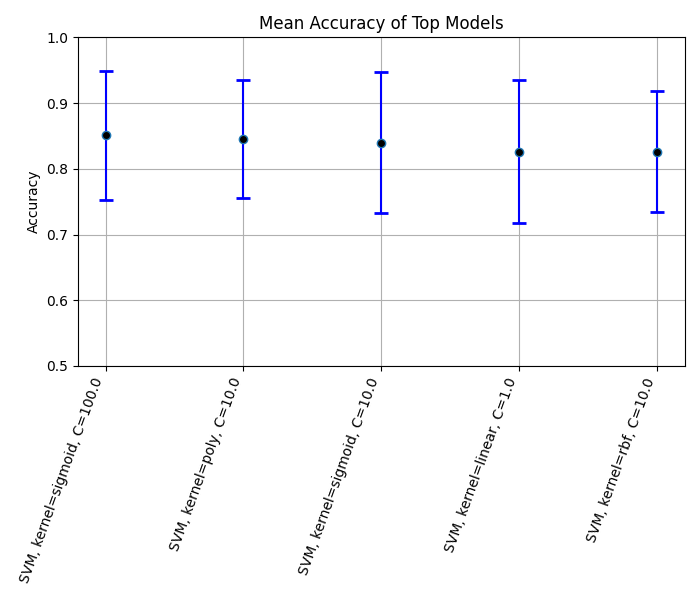
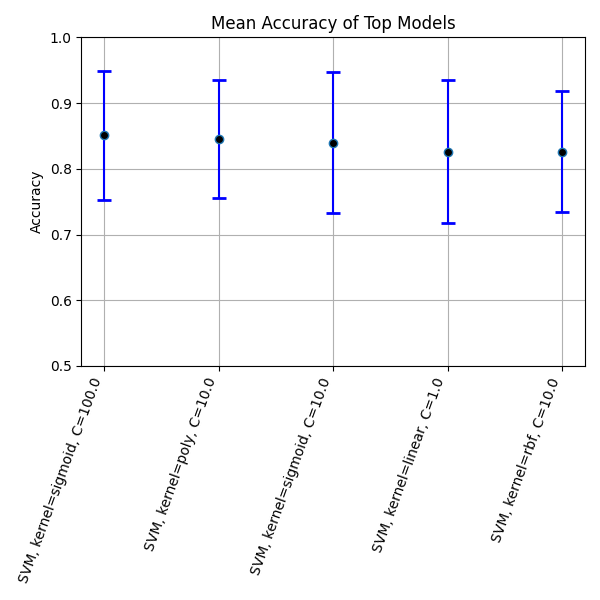
report SVM for the best model .txt

diff --git a/Hepatitis/pruebaSVM.py b/Hepatitis/pruebaSVM.py
@@ -1,4 +1,6 @@
 import pandas as pd
+from Tools.scripts.fixdiv import report
+
 from classes.Reader import DataPreprocessor
 from classes.SVM import SVM
 import os
@@ -11,6 +13,9 @@ from scipy import stats
 from scikit_posthocs import posthoc_nemenyi_friedman
 import matplotlib.pyplot as plt
 import seaborn as sns
+
+from test_reducing.pruebaDROP3 import reduction
+
 
 # STEPS:
 # 1. Compare 16 algorithms over the 10 folds of the dataset hepatitis
@@ -91,7 +96,6 @@ def previous_analysis(dataset_path_f):
                 metrics.append({
                     'Model': model,
                     'Dataset/Fold': f"Hepatitis/{n}",
-                    'Reduction': None,
                     'Accuracy': evaluation[0],
                     'Time': evaluation[1],
                     'F1': evaluation[2]
@@ -185,9 +189,8 @@ def total_analysis(kernel_def_f,c_value_def_f,dataset_path_ff):
             evaluation=svm_classifier.evaluate(x_test, y_test)
 
             metrics.append({
-                    'Model': model,
+                    'Model': model+ +reduction_desc,
                     'Dataset/Fold': f"Hepatitis/{fold}",
-                    'reduction_method':reduction_desc,
                     'Accuracy': evaluation[0],
                     'Time': evaluation[1],
                     'F1': evaluation[2]
@@ -214,8 +217,10 @@ best_five_algo.to_csv('svm_hepatitis_results_best5.csv', index=False)
 
 csv_path = "svm_hepatitis_results_best5.csv"
 output_path = "plots_and_tables\\svm_base\\statistical_analysis_results.png"
+report_output_path="plots_and_tables\\svm_base\\statistical_analysis_results.txt"
+alpha=0.1 # for the test
 
-if not svm_base_analysis.analyze_model_performance(csv_path,output_path):
+if not svm_base_analysis.analyze_model_performance(csv_path,output_path,report_output_path,alpha):
     print("It is concluded that there is no statistical difference between models.")
 else:
     print("It is concluded that there is statistical difference between models.")
@@ -223,22 +228,24 @@ else:
 
 # We will work with the model that presents higher accuracy
 best_SVM_algo = filter_top_model(prev_results[1], kernel_def[0], c_value_def[0])
-best_SVM_algo.to_csv('svm_hepatitis_results.csv', index=False)
+best_SVM_algo.to_csv('svm_hepatitis_results_best1.csv', index=False)
 
 # 4. I study the accuracy, time and f1 of the SELECTED model in 10 reduced folds for each of the 3 methods of reduction
 # (over 30 folds in total)
 
 best_algo_reduced= total_analysis(kernel_def[0],c_value_def[0],dataset_path)
-best_algo_reduced.to_csv('svm_hepatitis_results_reduced.csv', index=False, header=False)
+best_algo_reduced.to_csv('svm_hepatitis_results_reduced.csv', index=False)
 
 # 5. I apply the Friedman + Nemenyi test to get the best reduction method.
 csv_path = "svm_hepatitis_results_reduced.csv"
 output_path = "plots_and_tables\\svm_base\\statistical_analysis_results_reduced.png"
+report_output_path="plots_and_tables\\svm_base\\statistical_analysis_results_reduced.txt"
+alpha=0.1 # for the test
 
-if not svm_base_analysis.analyze_model_performance(csv_path,output_path):
-    print("It is concluded that there is no statistical difference between models.")
-else:
-    print("It is concluded that there is statistical difference between models.")
-    svm_base_analysis.main(csv_path, output_path)
+#if not svm_base_analysis.analyze_model_performance(csv_path,output_path,report_output_path,alpha):
+#    print("It is concluded that there is no statistical difference between models.")
+#else:
+#    print("It is concluded that there is statistical difference between models.")
+#    svm_base_analysis.main(csv_path, output_path)
 
 

diff --git a/Hepatitis/svm_base_analysis.py b/Hepatitis/svm_base_analysis.py
@@ -6,7 +6,7 @@ import matplotlib.pyplot as plt
 import seaborn as sns
 
 
-def analyze_model_performance(csv_path,output_path):
+def analyze_model_performance(csv_path,output_path,report_output_path,alpha):
     """
     Analyze model performance using Friedman and Nemenyi tests.
 
@@ -55,9 +55,33 @@ def analyze_model_performance(csv_path,output_path):
     print(f"Statistic: {friedman_statistic:.4f}")
     print(f"p-value: {friedman_p_value:.4f}")
 
-    if friedman_p_value >= 0.1:
+    # generate a .txt report with the statistical analysis obtained
+
+    with open(report_output_path, 'w') as f:
+        # Write header
+        f.write("Statistical Analysis Report\n")
+        f.write("=========================\n\n")
+
+        # Top Models Section
+        f.write("Top Models Performance Summary\n")
+        f.write("--------------------------\n")
+        for model in summary_stats.index:
+            f.write(f"\nModel: {model}\n")
+            f.write(f"Mean Accuracy: {summary_stats.loc[model, 'Mean Accuracy']:.4f}\n")
+            f.write(f"Std Accuracy: {summary_stats.loc[model, 'Std Accuracy']:.4f}\n")
+            f.write(f"Mean F1 Score: {summary_stats.loc[model, 'Mean F1']:.4f}\n")
+            f.write(f"Mean Time: {summary_stats.loc[model, 'Mean Time']:.4f}\n")
+
+        # Friedman Test Results
+        f.write("\nFriedman Test Results\n")
+        f.write("--------------------\n")
+        f.write(f"Test Statistic: {friedman_statistic:.4f}\n")
+        f.write(f"P-value: {friedman_p_value:.4f}\n")
+        f.write(f"Significance level (alpha): {alpha}\n")
+
+    if friedman_p_value >= alpha:
         # Create figure with subplots
-        fig, ax1 = plt.subplots(1, 1, figsize=(7,6))
+        fig, ax1 = plt.subplots(1, 1, figsize=(6,6))
 
         # Plot mean accuracy with error bars
         models = summary_stats.index
@@ -89,6 +113,18 @@ def analyze_model_performance(csv_path,output_path):
     else:
         # Perform Nemenyi post-hoc test only when we discard the null hypothesis
         nemenyi_result = posthoc_nemenyi_friedman(pivot_df)
+
+        with open(report_output_path, "a") as f:
+            # Nemenyi Test Results
+            f.write("\nNemenyi Test P-values\n")
+            f.write("-------------------\n")
+            f.write("Lower values indicate more significant differences between models\n\n")
+
+            # Format Nemenyi matrix as a table
+            models = nemenyi_result.index
+            f.write("Model Pairs" + " " * 30 + "P-value\n")
+            f.write("-" * 50 + "\n")
+
         return summary_stats, (friedman_statistic, friedman_p_value), nemenyi_result
 
 
